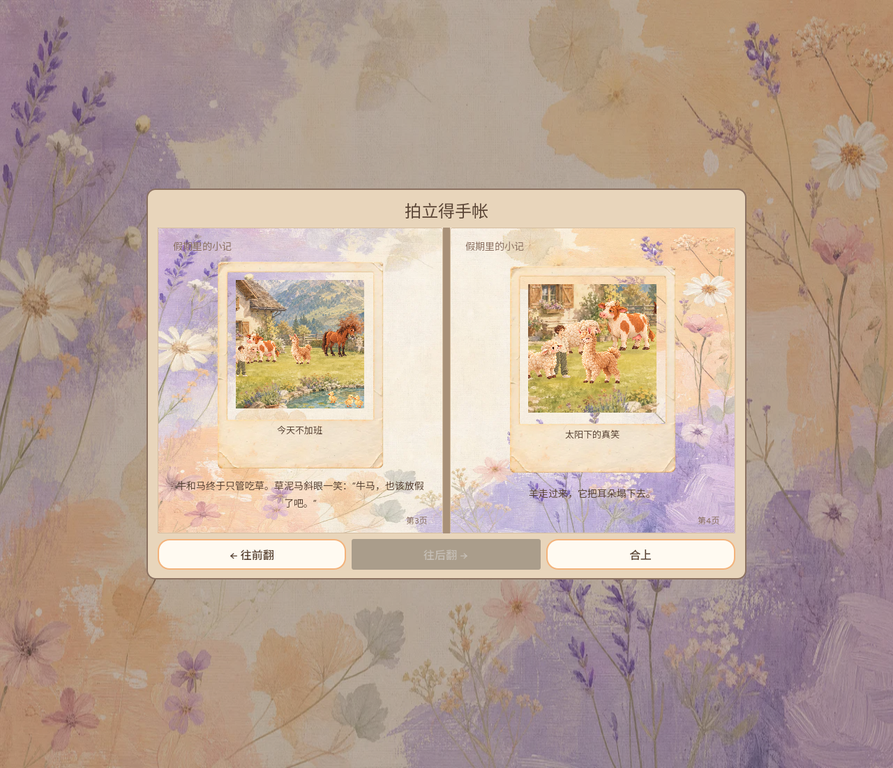
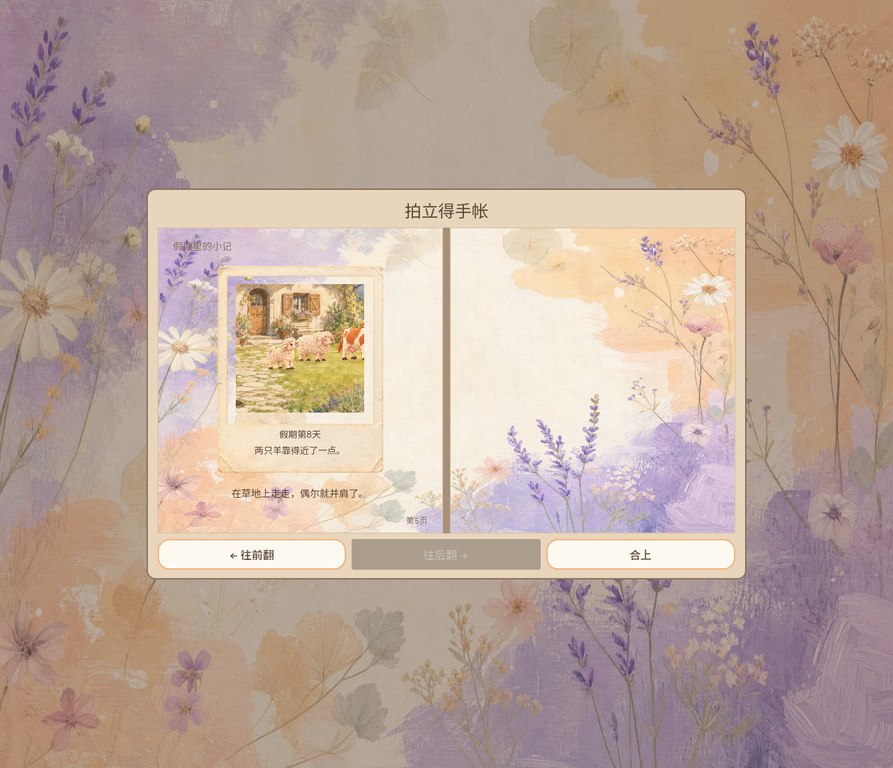
[REQ-20261002-013] Validate pond truth, same observed duck and variant bounds

diff --git a/docs/playtests/2026-10-02-REQ-013-scrapbook.md b/docs/playtests/2026-10-02-REQ-013-scrapbook.md
@@ -6,14 +6,14 @@
 
 | 场景 | 观察与结果 |
 | --- | --- |
-| 大鹅卧姿 | 第一天或站姿/远处不触发；第二天玩家靠近、鹅的实际完整卧姿 `rest` 帧出现时才入册。照片中为同一幅伏卧原画。 |
+| 大鹅卧姿 | 第一天、站姿、远处或草地上休息均不触发；第二天鹅实际位于 `pond` 区域，玩家靠近、实际完整卧姿 `rest` 帧出现时才入册。照片中为同一幅伏卧原画。 |
 | 两只羊 | 分开不触发；真实位置接近且旅人在旁时照片同时含 `sheep_a` 和 `sheep_b`。 |
-| 池边鸭鹅 | 第三天前、鸭子离鹅远、玩家不在旁时都不触发；第三天真实鸭鹅临近且玩家可见时拍下最近的鸭与鹅。同规则重复不新增照片。 |
-| 题词和存档 | 成片保存 `caption_variant` 0–2，越界/小数被拒；旧无变体照片维持原句，旧无日期照片只显示原标题。照片重开相册、磁盘重载、中英切换均不重新抽签；真实马照片不捏造“生气”。 |
+| 池边鸭鹅 | 第三天前、鹅/鸭不在池边、鸭子离鹅远或玩家只看见另一只鸭时都不触发；第三天**真正被取景的最近鸭**与鹅均在 `pond` 区域、相互邻近且旅人看见这同一对动物时才拍。同规则重复不新增照片。 |
+| 题词和存档 | 成片保存按**所属规则的实际短句数**限制的 `caption_variant`；两句羊驼规则拒绝值 2，三句鹅规则接受值 2，越界/小数被拒；旧无变体照片维持原句，旧无日期照片只显示原标题。照片重开相册、磁盘重载、中英切换均不重新抽签；真实马照片不捏造“生气”。 |
 | 手账操作 | 桌面双页有书脊与页码，390×844 竖屏单页；只有真实已拍记忆，空页不显示未解锁目标。鼠标/触屏按钮、触屏横扫和键盘左右键可翻；合上归还院子输入与 HUD。低动效静态换页。 |
-| 回归 | `test/scrapbook_encounter_suite.gd` **16/16**；`test/photo_moment_render_suite.gd` **1162/1162**；`test/photo_moment_save_suite.gd` **41/41**；更新后的 `test/ui_interaction_suite.gd` **无失败**。`npm run verify:daily` 完整通过（包括基本 389、走路 410、动物家园 1005、物理院子 640、书页/真实新照/旧场景和多视口测试）。 |
[1 lines of base64/hex data omitted]
-| Chromium 候选 | 公网临时测试服务器能加载 WASM 游戏。浏览器实际历史存档已有旧照片，标题页与院子 HUD 均能打开手账；翻到第 3/4 页和合上都可用。旧快照无日期只显示旧标题，未伪造“第一天”；院子打开手账时 HUD 确实隐藏。Web 候选未使用人为新照注入，三种新增事件的实际画面见下面的原生现场 fixture。 |
+| 回归 | 修复独立 reviewer 的三项问题后，`test/scrapbook_encounter_suite.gd` **20/20**；`test/photo_moment_render_suite.gd` **1162/1162**；`test/photo_moment_save_suite.gd` **42/42**；更新后的 `test/ui_interaction_suite.gd` **无失败**。修正后 `npm run verify:daily` 完整通过（基本 389、走路 410、动物家园 1005、物理院子 640，以及书页/旧场景和多视口测试）；Godot 没有脚本解析错误。 |
[1 lines of base64/hex data omitted]
+| Chromium 候选 | 浏览器从服务器实际下载**修正后 12,776,556 字节 PCK**。历史存档中旧快照无日期只显示旧标题；标题页与院子 HUD 均能打开手账，翻页/合上可用，院子打开书页时 HUD 确实隐藏。在原有第 8 天存档中，院子**自然遇到两羊真实靠近**，相册末页出现“假期第8天，两只羊靠近了一点”的新场景照片；没有向 Web 包注入任何测试照片。其余新事件画面见原生 YardWorld fixture。 |
 
 ## 可视证据
 
@@ -23,7 +23,7 @@
 - [桌面：池边鸭鹅同框与留白末页](2026-10-02-REQ-013-scrapbook/desktop-duck-goose-book.png)
 - [手机：鸭鹅照片中文单页](2026-10-02-REQ-013-scrapbook/mobile-duck-goose-zh.png)
 - [手机：同一鸭鹅照片英文单页](2026-10-02-REQ-013-scrapbook/mobile-duck-goose-en.png)
-- [Chromium 候选：标题页旧照片翻至最后双页](2026-10-02-REQ-013-scrapbook/web-candidate-last-spread.webp)
+- [Chromium 最终候选：自然抓到假期第 8 天两羊的末页](2026-10-02-REQ-013-scrapbook/web-candidate-last-spread.webp)
 - [Chromium 候选：从院子打开相册后底层 HUD 隐藏](2026-10-02-REQ-013-scrapbook/web-yard-album.webp)
 
 **遗留与下一步：** 旧规则的早期固定题词及旧存档无世界照片时沿用原有卡片降级展示，不能反写历史现场；更自由的玩家角度/构图属于并行 REQ-012，不在本切片。下一步待本 PR 最终 SHA 独立审查通过，再合并并核对 GitHub Actions、公开 release 清单及 PCK 字节哈希，用户届时在正式 Pages 试玩。

diff --git a/docs/architecture/scrapbook-encounters.md b/docs/architecture/scrapbook-encounters.md
@@ -2,12 +2,12 @@
 
 ## 玩家体验与分工
 
-拍照是旅人路过时留下的一张真实照片，不是任务/打卡。本切片由 `MANUS-CONTRIBUTOR` 独立负责照片规则、题词 provenance 和相册阅读界面；REQ-011 的互动后世界回响与小故事仍由其独立 issue #45 承载，本切片**不实现**离线成长、剧情状态机或关系值。REQ-001 的行走与互动动作属于 PR #27，本切片不改它。
+拍照是旅人路过时留下的一张真实照片，不是任务/打卡。本切片由 `MANUS-CONTRIBUTOR` 独立负责照片规则、题词 provenance 和相册阅读界面；REQ-011 的互动后世界回响与小故事仍由其独立 issue #45 承载，本切片**不实现**离线成长、剧情状态机或关系值。REQ-012 的天空与玩家自由构图属于独立方向；REQ-001 的行走与互动动作属于 PR #27，本切片均不改。
 
 ## 数据与呈现的分离
 
 1. `ExpressionCatalog` 声明哪些真实世界状态允许照片；`YardWorld` 对玩家距离、姿态、物种邻近、日期和天气做实时验证。没有满足条件的场景，不创建相册记录。新事件只用已经存在的完整水彩动作和实物关系：在岸边真正伏卧的大鹅、彼此靠近的两只羊、靠近大鹅的鸭子。
-2. `PhotoMoment.capture` 在触发时保留真实可见场景、假期天数与一次性抽出的**有界题词变体序号**，并通过 `sanitize` 严格验证。旧 `version:1` 无此字段时继续使用历史原题词；无 `day` 时只显示旧标题。重复看相册不重新抽签；重开存档、改变语言仍指向同一事实。题词只能描述规则保证或画面实际发生的动作，不能拟造生气、感谢、吃东西等不可证实的事情。
+2. `PhotoMoment.capture` 在触发时保留真实可见场景、假期天数与一次性抽出的**有界题词变体序号**，并按照片所属规则的实际变体数通过 `sanitize` 验证。旧 `version:1` 无此字段时继续使用历史原题词；无 `day` 时只显示旧标题。重复看相册不重新抽签；重开存档、改变语言仍指向同一事实。题词只能描述规则保证或画面实际发生的动作，不能拟造生气、感谢、吃东西等不可证实的事情。
 3. `PhotoDiary` 只根据已存变体 ID 选中英双语短句，不保存翻译后的文字、不自行随机。`SaveStore` 仍是单一权威存档；没有第二份可能漂移的相册缓存。
 4. 相册仅从 `collected` 中读真实照片，按首次获照顺序浏览：宽屏摊开两页，竖屏每次一页；每页一张放大的拍立得、有真实日期题词和事件小注。已有照片但旧存档没有世界快照时可显示旧角色画片，不能声称那是拍到的现场。空相册显示宁静留白，不展示锁住的条目；纸张、书脊和拍立得框取自仓库 `scrapbook_paper.png` / `polaroid_frame.png`，所有文字由 Godot 控件本地化绘制。上一页/下一页按钮、键盘左右键和触屏翻动共同工作；Esc 仍合上书并归还世界输入。无完成率、未解锁槽、红点、倒计时或收藏奖励。低动效直接换页、无强制动画。
 
@@ -15,9 +15,9 @@
 
 | 场景 | 观察条件 | 取景 | 文案只说已证实之事 |
 | --- | --- | --- | --- |
-| 岸边的鹅 | 大鹅真实 `state=rest` 且使用完整伏卧画帧；玩家在近旁，第 2 天起 | 大鹅现时轮廓和脚下岸草 | 大鹅伏下身歇着 |
+| 岸边的鹅 | 大鹅实际位于 `pond` 岸区、`state=rest` 且使用完整伏卧画帧；玩家在近旁，第 2 天起 | 大鹅现时轮廓和脚下岸草 | 大鹅伏下身歇着 |
 | 两只羊 | 羊 A 与羊 B 的真实空间距离在阈值内、玩家看见，第 2 天起 | 两只羊同时入镜 | 两只羊靠得近了一点 |
-| 池边来客 | 一只鸭与岸边大鹅实际邻近、玩家看到两者，第 3 天起 | 现场最近的鸭与鹅 | 鸭子游到大鹅附近 |
+| 池边来客 | 大鹅与取景所选的**最近那只鸭**都在 `pond` 岸区、两者真实邻近且旅人看见的正是这只鸭和鹅，第 3 天起 | 现场最近的鸭与鹅，不以另一只可见鸭冒充 | 鸭鹅在水边靠近 |
 
 观察类事件优先级低于主动抚摸、投喂及已有的羊驼主线；每种照片仅第一次入册，不许错过惩罚。实际照片构图不得摆拍或改变演员姿态。测试必须证实未满足距离/卧姿不触发、实际抓拍存档、旧快照字段缺省、题词变体双语稳定、相册翻页/缩屏/返回院子。
 
